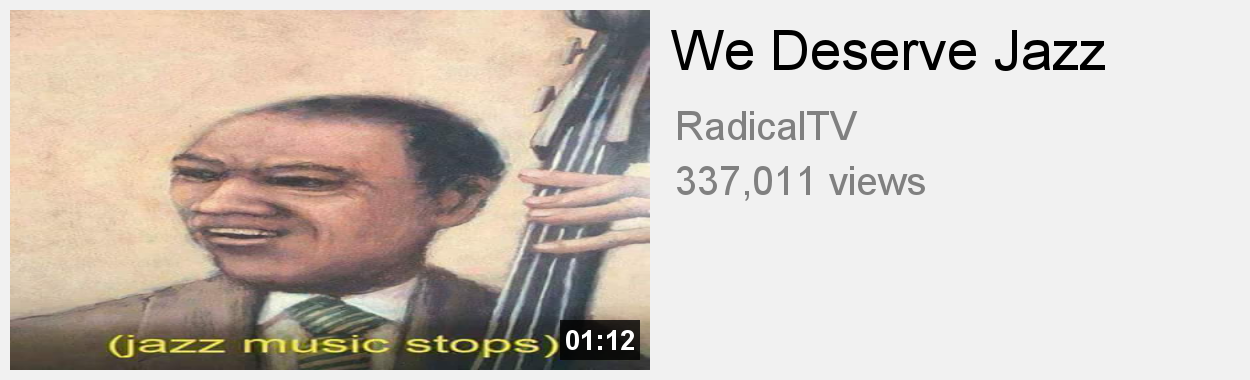
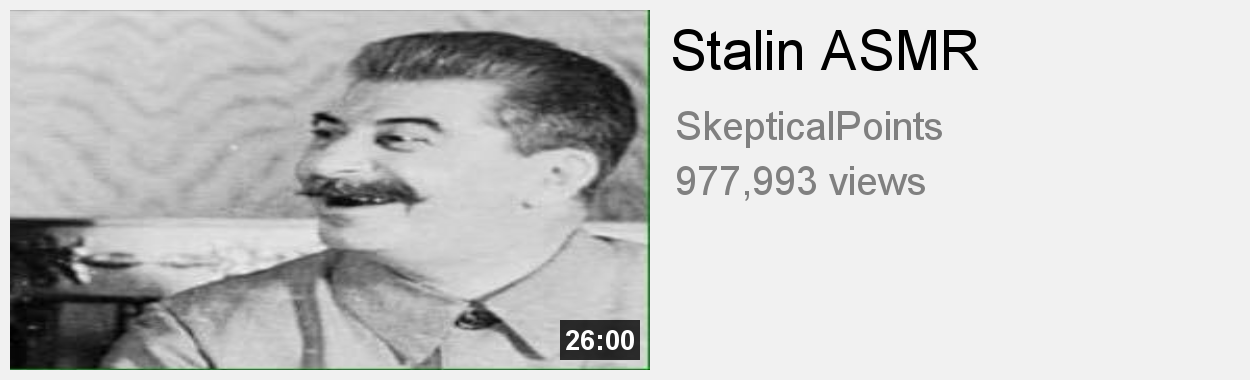
background for transparant thumbnails

diff --git a/bot.js b/bot.js
@@ -100,7 +100,7 @@ function genName(upload) {
 async function genImg(upload) {
     var titleObj = genTitle();
     var title = titleObj.title;
-    var titleWrap = wordWrap(title, 18);
+    var titleWrap = wordWrap(title, 19);
     var keywords = titleObj.keywords;
     var time = genTime();
     var views = genViews();
@@ -136,10 +136,13 @@ async function genImg(upload) {
         ctx.fillStyle = '#F1F1F1';
         ctx.fillRect(0, 0, 1250, 380);
 
+        ctx.fillStyle = 'white';
+        ctx.fillRect(10, 10, 640, 360);
+        
         await loadImage('thumb.jpg').then((image) => {
             ctx.drawImage(image, 10, 10, 640, 360); // stretch
         });
-
+        
         ctx.fillStyle = 'black';
         ctx.font = '55px Arial';
         ctx.fillText(titleWrap, 670, 70);
@@ -166,6 +169,9 @@ async function genImg(upload) {
 
         canvas = createCanvas(640, 360);
         ctx = canvas.getContext('2d');
+
+        ctx.fillStyle = 'white';
+        ctx.fillRect(0, 0, 640, 360);
 
         await loadImage('thumb.jpg').then((image) => {
             ctx.drawImage(image, 0, 0, 640, 360);
@@ -268,10 +274,7 @@ function countLines(str) {
 }
 
 
-/**
- * Image upload, scheduled for every 3 hours
- */
-const task = cron.schedule('0 */3 * * *', () => {
+const task = cron.schedule('0 */3 * * *', () => { // post scheduled for every 3 hours
     genImg(true);
 });
 
@@ -287,4 +290,5 @@ if (args.length < 1) {
     genImg(false);
 } else {
     console.log("Usage: node bot.js [-m|-t]");
+    process.exit();
 }

diff --git a/fetch.py b/fetch.py
@@ -27,7 +27,6 @@ def get_lnk(query,sort = 'random'):
     for div in soup.findAll('div', attrs={'class':'img'}):
         result.append(div.find('a')['href'])
     if len(result) == 0:
-        #raise Exception('Sorry, couldn\'t find anything :(')
         return ''
     else:
         if sort == 'random':
@@ -46,29 +45,10 @@ def get_img(cmd,sort='random'):
         return 'https://www.shitpostbot.com' + (div.find('a')['href'])
 
 def dl(url):
-    # urllib.request.urlretrieve(url,'images/' + url.replace('https://www.shitpostbot.com/img/sourceimages/', ''))
     urllib.request.urlretrieve(url, 'thumb.jpg')
     print('Successfully downloaded ' + url.replace('https://www.shitpostbot.com/img/sourceimages/', ''))
 
 
-#if len(sys.argv) <= 2 :
-#    print("\nUsage:\npython fetch.py -q [query] \n ")
-#    sys.exit (1)
-#elif '-q' in sys.argv:
-#    index = sys.argv.index('-q')
-#    if sys.argv[index + 1] == '--rand':
-#        print('Downloading Random Image from ShitPostBot...')
-#        image = reqImg()
-#        dl(image)
-#    else:
-#        if '--top' in sys.argv:
-#            url = get_img(str(sys.argv[index + 1]),'top')
-#            print('Downloading the top post containing %s from ShitPostBot...'%(str(sys.argv[index + 1])))
-#            dl(url)
-#        else:
-#            url = get_img(str(sys.argv[index + 1]))
-#            print('Downloading %s from ShitPostBot...'%(str(sys.argv[index + 1])))
-#            dl(url)
 
 if len(sys.argv) <= 1:
     print('Downloading Random Image from ShitPostBot...')
